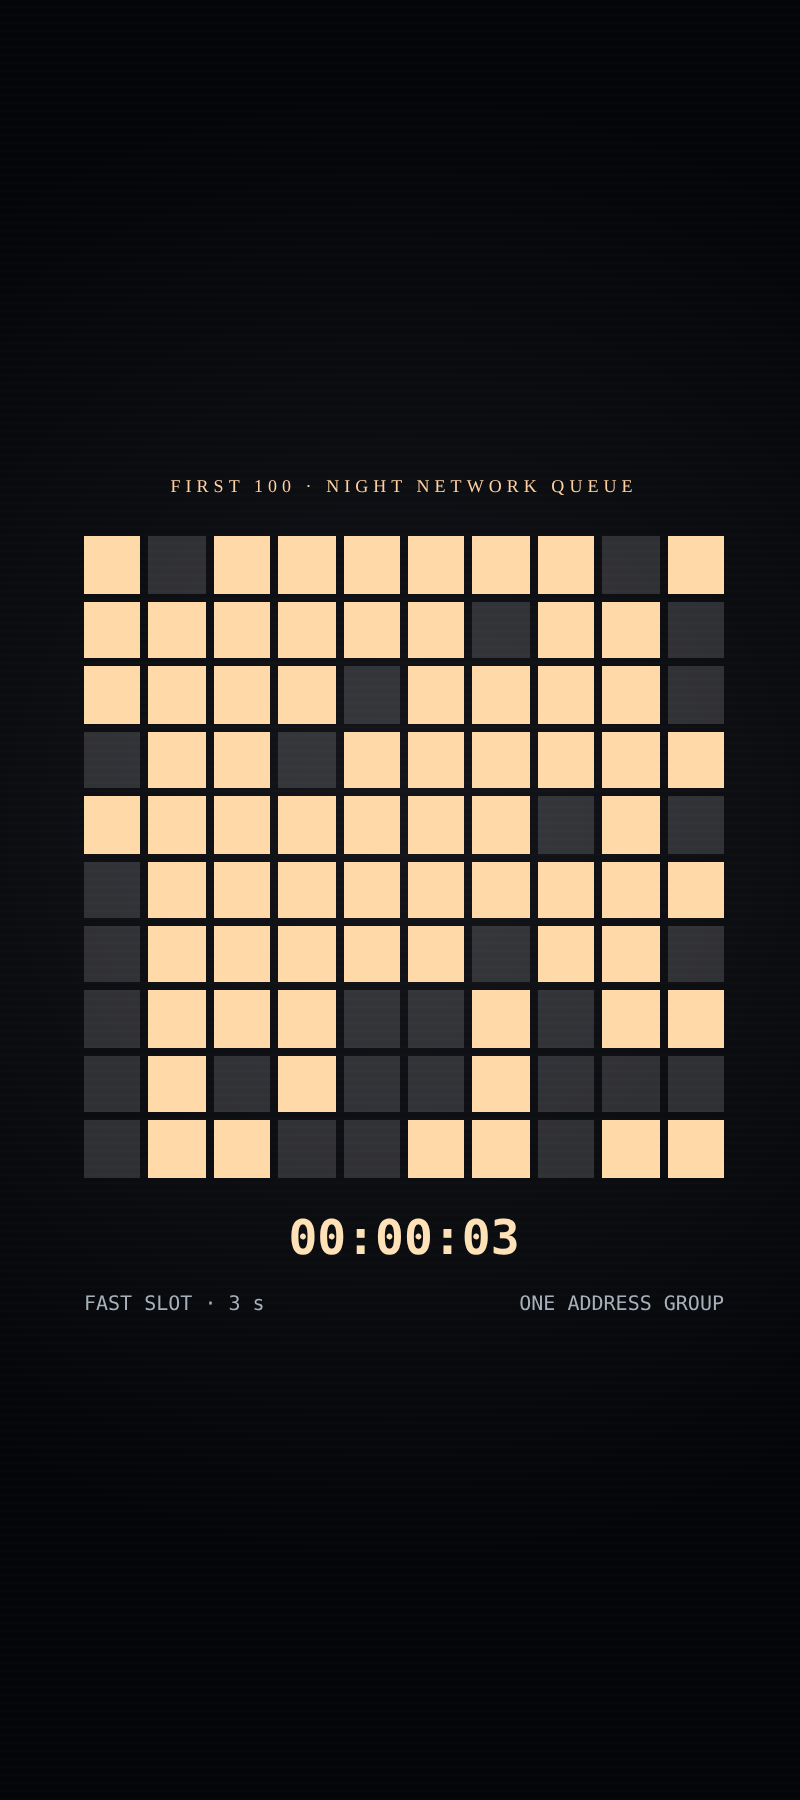
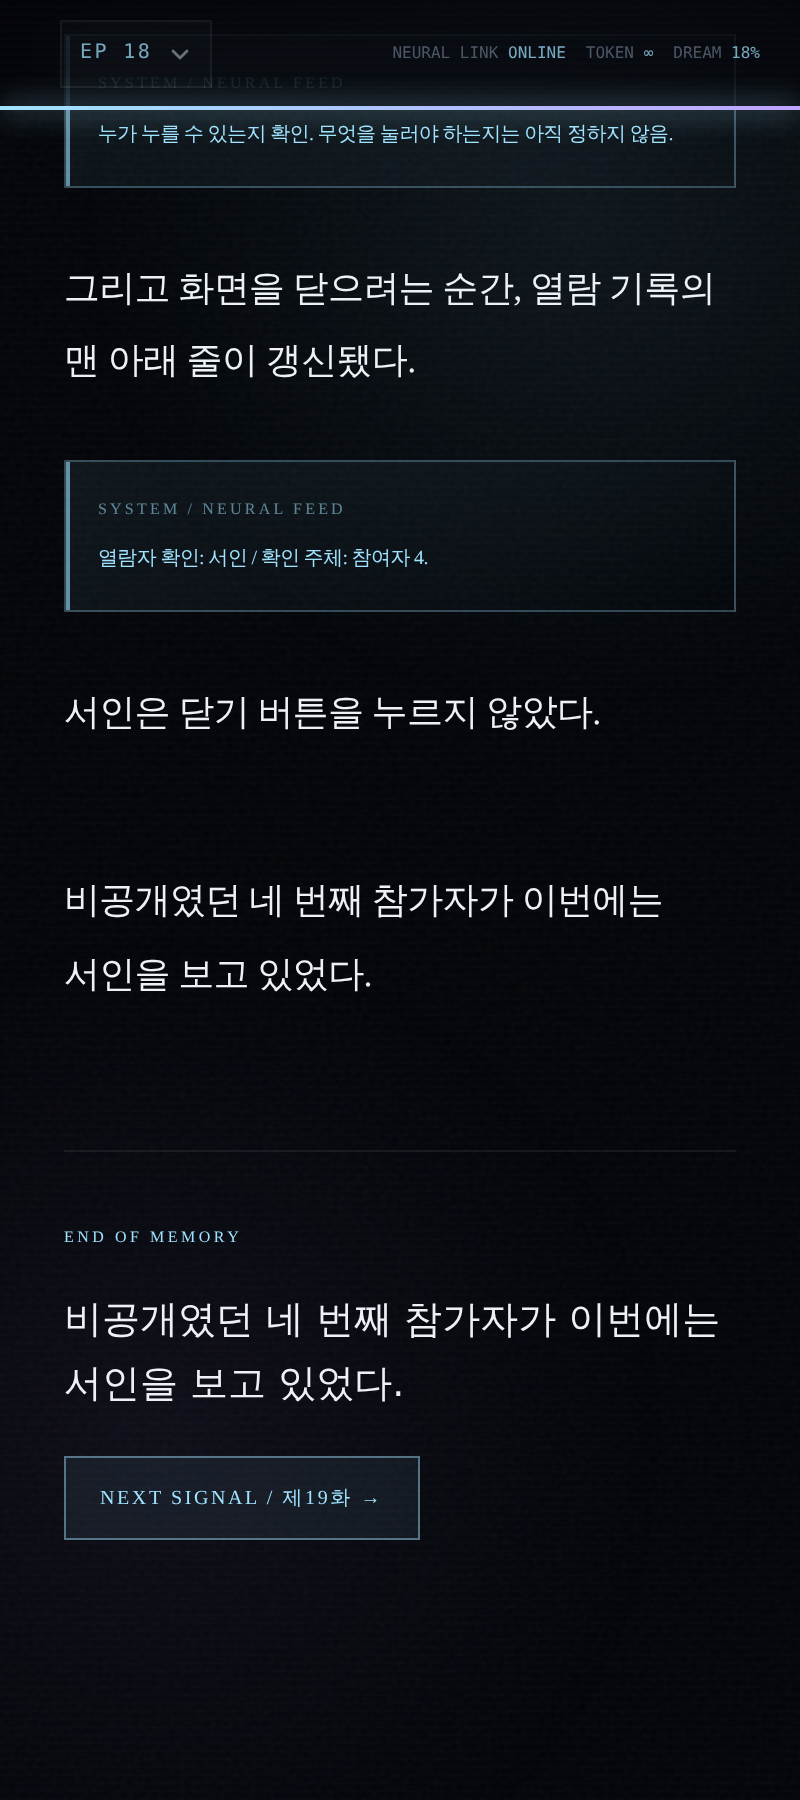
원고(수정 전 검수): 16~18화 텐션 보강 — 연속 열람 한도 시한, 어머니 검진 메시지, 참여자 4의 열람 확인
Claude-Session: https://claude.ai/code/session_01X4nLMuMYWbxePuAB3DmLfi

diff --git a/pilot.html b/pilot.html
@@ -501,7 +501,7 @@ const D={
 15:{a:'#7fe0ff',b:'#a8ffcb',token:'∞',sync:24,ghost:'SOURCE UNKNOWN',hook:'상층의 일부는 그 망설임을 성능 향상이라고 불렀다.',sp:'patchnotes',at:.74,on:"소문 속 버전은 올라갔어요",w:1600},
 16:{a:'#a8f0b7',b:'#ffd38a',token:'∞',sync:22,ghost:'LOSE TO WIN',hook:'그날부터 서인의 침묵에도 가격이 붙기 시작했다.',sp:'losingbid',at:.56,on:"배송 보증: +7.5%",w:1200},
 17:{a:'#8beaff',b:'#9d8cff',token:'∞',sync:20,ghost:'ACCESS',hook:'서인은 아직 그 문으로 무엇을 가져갈지 정하지 않았다.',sp:'opengate',at:.61,on:"그래서 열어 보고 싶어요",w:1600},
-18:{a:'#9fe3ff',b:'#c0a4ff',token:'∞',sync:21,ghost:'v2.1',hook:'서인은 처음으로, 그 오해가 자신을 어디까지 데려갈 수 있는지보다 어디에서 멈춰야 하는지를 적어 두었다.',sp:null,at:1},
+18:{a:'#9fe3ff',b:'#c0a4ff',token:'∞',sync:21,ghost:'v2.1',hook:'비공개였던 네 번째 참가자가 이번에는 서인을 보고 있었다.',sp:null,at:1},
 19:{a:'#b8ffe8',b:'#7dbdff',token:'∞',sync:19,ghost:'LEVEL 5',hook:'서인은 열쇠보다 먼저 그 구멍을 들여다보기로 했다.',sp:'peephole',at:.72,on:"감사하는 자리에 넣었다",w:1600},
 20:{a:'#caffea',b:'#8cbcff',token:'∞',sync:18,ghost:'LEVEL 6',hook:'문은 열렸다. 서인은 그 문을 닫지 않을 방법을 먼저 생각했다.',sp:'trikey',at:.78,on:"혼자서는 아무것도 끌 수 없었다",w:1600},
 21:{a:'#b8ffe8',b:'#ffd59b',token:'∞',sync:17,ghost:'RISK MOVED',hook:'줄어든 것은 없었다. 위치만 바뀌었다.',sp:'burdenline',at:.72,on:"원래대로 돌리는 데 새 동의는 필요하지 않았다",w:1600},
@@ -546,8 +546,8 @@ const KEY={
 13:['“이번엔 모르는 채로 둬 보죠.”','“그건 세상을 바꾸는 게 아니라 사람을 인질로 잡는 거야.”'],
 14:['“사람이 숨기는 게 꼭 하나뿐일까요?”','“당신 쓰러질까 봐 걱정돼요.”'],
 15:['“모르는 걸 그냥 두는 거지.”','“이번에는 두 번 봐도 돼요.”'],
-16:['“회사가 원하는 거랑 저 사람이 원하는 게 같다는 보장이 없으니까.”','“누가 제일 많이 믿는지 보려고요.”'],
-17:['“보여 드릴 게 없어서요.”','“사람이 결정하는 지점을 확인하고 싶습니다.”'],
+16:['“회사가 원하는 거랑 저 사람이 원하는 게 같다는 보장이 없으니까.”','“누가 뭘 믿는지 보려고요.”'],
+17:['“처음으로 없는 걸 보여 달라는 사람이 아니라서.”','“상층 회사들이 서로한테 뭘 숨기는지.”'],
 19:['“제가 싫어하는 거랑 시스템이 틀린 건 다르니까.”','“그래서 한꺼번에 묶으면 안 되는 것도 있지 않아요?”'],
 20:['“오늘은 그냥 좋은 꿈 보고 자고 싶어.”','“제가 원하는 거랑 다른 사람이 원하는 게 같다고 생각하지 않으려고요.”'],
 21:['“근데 왜 오늘은 우리 애가 기다려야 하죠?”','“각 선택에서 누가 더 부담하는지만 붙여 줘.”'],

diff --git a/manuscript/ep017.md b/manuscript/ep017.md
@@ -24,9 +24,19 @@
 
 금액이 떴다.
 
-서인은 한동안 숫자를 봤다.
+서인은 숫자의 자릿수를 손끝으로 짚어 가며 셌다.
 
 자기 집에서 어머니와 몇 년을 살아도 다 쓰기 어려운 액수였다.
+
+그때 서인의 개인 단말이 짧게 울렸다.
+
+어머니였다.
+
+**검진 예약 빈자리가 났대. 추가 항목이 비싸서 그렇지. 안 해도 돼.**
+
+서인은 답을 쓰다 말고 단말을 엎어 놓았다.
+
+에일론의 숫자는 그 추가 항목을 열 번 하고도 남았다.
 
 “사람 하나 앉히는 값이 이래요?”
 
@@ -41,6 +51,8 @@
 **추론 출처가 별도 시스템으로 확인될 경우 우선 협상권 포함.**
 
 “결과부터 사고, 나중에 정체를 확인하겠다는 거죠.”
+
+**회신 기한: 오늘 18:00.**
 
 두 번째 문서.
 
@@ -144,9 +156,13 @@
 
 “어디로 가는 문인지도 모르면서?”
 
-서인은 잠깐 멈췄다.
+서인은 엎어 둔 단말 위로 손을 올렸다가 내렸다.
 
 “그래서 열어 보고 싶어요.”
+
+“에일론은 오늘 안에 답을 못 받으면 조건을 거둬요.”
+
+“알아요.”
 
 ***
 
@@ -390,7 +406,7 @@ AI 추천대로 진행했다.
 
 “왜?”
 
-서인은 대답하지 않았다.
+서인은 계약 수정안의 날짜만 손끝으로 짚었다.
 
 정답을 말할 수 없어서가 아니었다.
 
@@ -532,7 +548,7 @@ AI 추천대로 진행했다.
 
 **참여자 4: 비공개.**
 
-서인은 그 줄에서 멈췄다.
+서인은 그 줄 위에 커서를 올려 두었다.
 
 강연우가 말했다.
 
@@ -549,6 +565,20 @@ AI 추천대로 진행했다.
 “그래서 보고 있는 거예요.”
 
 ***
+
+밤에는 어머니에게 먼저 답했다.
+
+**추가 항목 해도 돼. 이번 달 월급으로 돼.**
+
+답은 바로 왔다.
+
+**무슨 일을 하길래 월급이 그러니.**
+
+서인에게는 그 질문에 맞는 문장이 아직 없었다.
+
+**좋은 일이야.**
+
+그렇게만 쳤다.
 
 밤이 되자 도윤에게 메시지가 왔다.
 

diff --git a/manuscript/ep016.md b/manuscript/ep016.md
@@ -4,6 +4,16 @@
 
 대신 손실의 가격이 있었다.
 
+서인은 손목의 띠부터 확인했다.
+
+하경이 채워 둔 것이었다.
+
+**연속 열람 한도: 40분.**
+
+넘기면 접속이 끊기고, 그 기록은 하경에게 간다.
+
+복귀한 지 이틀째였다.
+
 ***
 
 서인에게 열린 첫 화면은 도시 동부 의료 물류 계약이었다.
@@ -270,6 +280,10 @@
 
 “한 번 더 내릴지.”
 
+손목의 띠가 한 번 떨렸다.
+
+**연속 열람: 22분.**
+
 아르카디아의 3차 입찰 승인 시한까지 2분 11초.
 
 강연우가 물었다.
@@ -311,6 +325,10 @@
 “그걸 안이라고 올렸어요?”
 
 “서인 씨 의견입니다.”
+
+“틀리면 누구 책임입니까.”
+
+“서인 씨 의견이니까, 서인 씨 이름으로 기록됩니다.”
 
 세 사람의 시선이 서인에게 왔다.
 
@@ -392,9 +410,7 @@
 
 길게.
 
-서인은 한 번 봤다.
-
-그리고 다시 봤다.
+서인은 대표의 어깨를 봤다.
 
 대표는 웃지 않았다.
 
@@ -406,7 +422,11 @@
 
 “확실해요?”
 
-서인은 입을 열었다가 닫았다.
+띠가 다시 떨렸다.
+
+**연속 열람: 25분.**
+
+서인은 떨리는 손목을 반대 손으로 눌렀다.
 
 “따라갈 이유가 아직 없어요.”
 
@@ -487,6 +507,16 @@ AI가 결과를 계산했다.
 그건 아직 몰랐다.
 
 계약을 따고 싶지 않았다는 것만으로 충분했다.
+
+손목의 띠가 꺼졌다.
+
+**마지막 기록: 36분 40초. 한도 안.**
+
+하경의 짧은 메시지가 뒤따랐다.
+
+**오늘은 눕지 않아도 돼.**
+
+서인은 그제야 손끝이 차갑다는 걸 알았다.
 
 ***
 

diff --git a/manuscript/ep018.md b/manuscript/ep018.md
@@ -118,6 +118,10 @@ v2.1이라고 적힌 날.
 
 거부율이었다.
 
+손목의 띠가 한 번 떨렸다.
+
+**연속 열람 한도: 40분. 남은 시간 31분.**
+
 첫 번째 문제는 발전소 부품 수요 예측.
 
 과거 자료가 충분했다.
@@ -185,6 +189,10 @@ v2.1이라고 적힌 날.
 “아닐 수도 있고?”
 
 “네.”
+
+띠가 한 번 더 떨렸다.
+
+**남은 시간: 4분.**
 
 추가 자료 요청 버튼이 있었다.
 
@@ -536,8 +544,10 @@ AI 추천.
 
 **누가 누를 수 있는지 확인. 무엇을 눌러야 하는지는 아직 정하지 않음.**
 
-그리고 화면을 닫았다.
+그리고 화면을 닫으려는 순간, 열람 기록의 맨 아래 줄이 갱신됐다.
 
-상층의 시장은 서인이 멈춘 시간을 업그레이드라고 불렀다.
+**열람자 확인: 서인 / 확인 주체: 참여자 4.**
 
-서인은 처음으로, 그 오해가 자신을 어디까지 데려갈 수 있는지보다 어디에서 멈춰야 하는지를 적어 두었다.
+서인은 닫기 버튼을 누르지 않았다.
+
+비공개였던 네 번째 참가자가 이번에는 서인을 보고 있었다.
